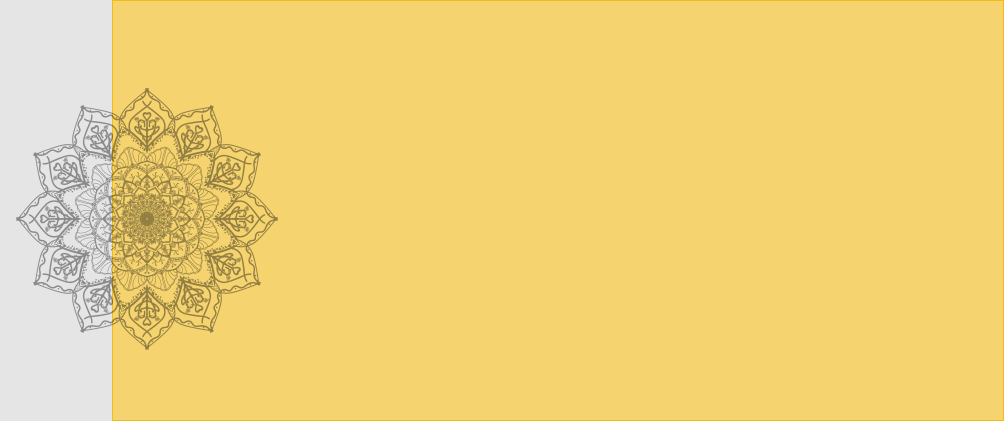
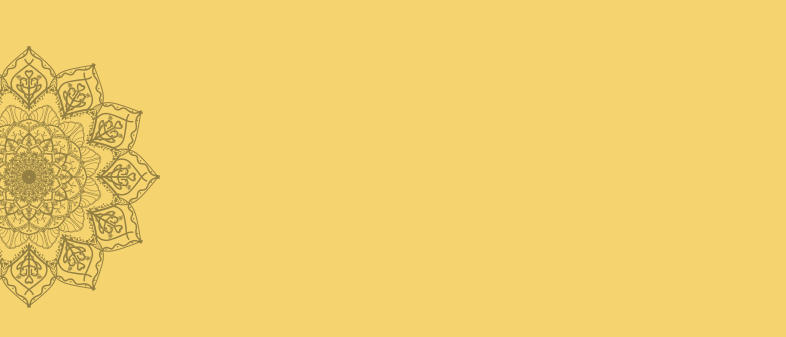
complete pages

Changed region(s): [[0.0, 0.0, 1.0, 1.0], [0.9771, 0.0, 1.0, 0.0297]]

diff --git a/src/Component/ashaar/ghazal/Ghazal.js b/src/Component/ashaar/ghazal/Ghazal.js
@@ -1,0 +1,30 @@
+import React from "react";
+import './Ghazal.css'
+import ghazalImage from '../../../assets/image/ghazal.png'
+
+
+const Ghazal = ()=>{
+    return(
+        <div className="ghazal-section">
+            <div className="ghazal-image">
+               <img src={ghazalImage} />
+            </div>
+            <div className="ghazal-boxes">
+        <div className="ghazal-left-bg">
+            <div className="ghazal-content">
+                <div>
+                  
+                </div>
+            Lorem Ipsum is simply dummy text of the printing and typesetting industry. Lorem Ipsum has been the industry's standard dummy text ever since the 1500s, when an unknown printer took a galley of type and scrambled it to make a type specimen book. It has survived not only five centuries, but also the leap into electronic typesetting, remaining essentially unchanged. It was popularised in the 1960s with the release of Letraset sheets containing Lorem Ipsum passages, and more recently with desktop publishing software like Aldus PageMaker including versions of Lorem Ipsum.
+            </div>
+        </div>
+        <div className="ghazal-right-bg">
+        Lorem Ipsum is simply dummy text of the printing and typesetting industry. Lorem Ipsum has been the industry's standard dummy text ever since the 1500s, when an unknown printer took a galley of type and scrambled it to make a type specimen book. It has survived not only five centuries, but also the leap into electronic typesetting, remaining essentially unchanged. It was popularised in the 1960s with the release of Letraset sheets containing Lorem Ipsum passages, and more recently with desktop publishing software like Aldus PageMaker including versions of Lorem Ipsum.
+
+        </div>
+        </div>
+     
+        </div>
+    )
+}
+export default Ghazal;

diff --git a/src/Component/ashaar/ghazal/Ghazal.css b/src/Component/ashaar/ghazal/Ghazal.css
@@ -1,4 +1,4 @@
-.Lyrics-section{
+.ghazal-section{
     position: absolute;
     height: 100%;
     background-image: url('/src/assets/image/asshar.png');
@@ -8,30 +8,41 @@
     left: 0;
     top: 0;
     width: 100%;
- 
 }
-.left-bg{
-    background-image: url('/src/assets/image/asshar-2.png');
-    background-repeat: no-repeat;
-    background-size: cover;
-
-    height:328px;
-
-    flex: 0 0  59%;
+.ghazal-image
+{
+    position: absolute;
+    right: 0;
+    top: 0;
+}
+.ghazal-left-bg{
     transform: translateY(-50%);
+    background-color: #F5D36F;
+    height: 305px;
+    margin-top: 26px;
+    flex: 0 0 54%;
+    border: 1px solid #F4BB13;
+    padding:20px 50px;
 }
-.right-bg{
+.ghazal-right-bg{
     transform: translateY(-50%);
     background-color: #D0E3F5;
-    opacity: 0.5;
     height: 275px;
     margin-top: 26px;
-    flex: 0 0 41%;
+    opacity: 0.5;
+    border:1px solid #99C4EF;
+    padding: 20px;
+
 }
-.boxes{
+.ghazal-boxes{
     display: flex;
     flex-direction: row;
     position: relative;
     top: 50%;
 
+}
+.ghazal-content{
+    background-color: #ffffff;
+    border-radius: 15px;
+    padding: 30px;
 }

diff --git a/src/App.js b/src/App.js
@@ -3,6 +3,7 @@ import {BrowserRouter,Routes,Route} from 'react-router-dom'
 import Main from './Component/mainSection/main'
 import Fal from  './Component/fal/Fal'
 import Ashaar from './Component/ashaar/asshar'
+import Ghazal from './Component/ashaar/ghazal/Ghazal'
 
 import './App.css';
 import './assets/font/Rezvan.ttf'
@@ -19,6 +20,7 @@ function App() {
       <Route path="/Fal" element={<Fal />}/>
         <Route path="/Ashaar" element={<Ashaar />}/>
      <Route path="/AboutUs" element={<AboutUs />}/>
+     <Route path="/Ghazal" element={<Ghazal />}/>
  </Routes>
 
    </BrowserRouter>

diff --git a/src/Component/ashaar/asshar.js b/src/Component/ashaar/asshar.js
@@ -3,8 +3,12 @@ import './asshar.css'
 
 const Ashaar = () =>{
 return(
-    <div className="Lyrics-section">
-
+    <div className="Lyrics-section ">
+        <div className="boxes">
+        <div className="left-bg"></div>
+        <div className="right-bg"></div>
+        </div>
+     
         
     </div>
 )
